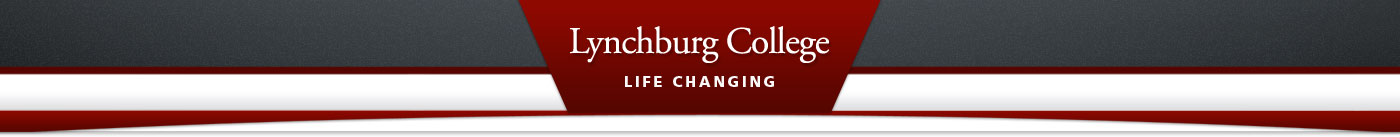
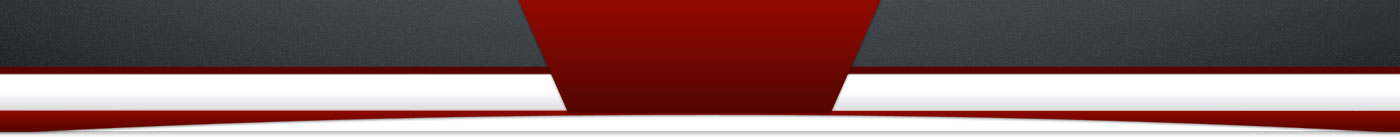
css changes

Changed region(s): [[0.3993, 0.1752, 0.6143, 0.4672], [0.43, 0.5547, 0.5529, 0.6423]]

diff --git a/www/sites/all/themes/lynchburg/css/global.css b/www/sites/all/themes/lynchburg/css/global.css
@@ -23,6 +23,27 @@ body {
 .zone-content{
 	margin-top:30px;
 }
+
+
+/* ========== LOGO ========== */
+
+.region-branding {
+display: block;
+width: 353px;
+height: 137px;
+text-indent: -9999px;
+background: transparent url("/sites/all/themes/lynchburg/images/logo.png") no-repeat top center;
+margin:-30px 0 0 0;
+}
+
+.region-branding a{
+display: block;
+width: 100%;
+height: 100%;
+outline: none;
+}
+
+
 /* ========== LIST STYLES ========== */
 ol, ul {
 	list-style: none;
